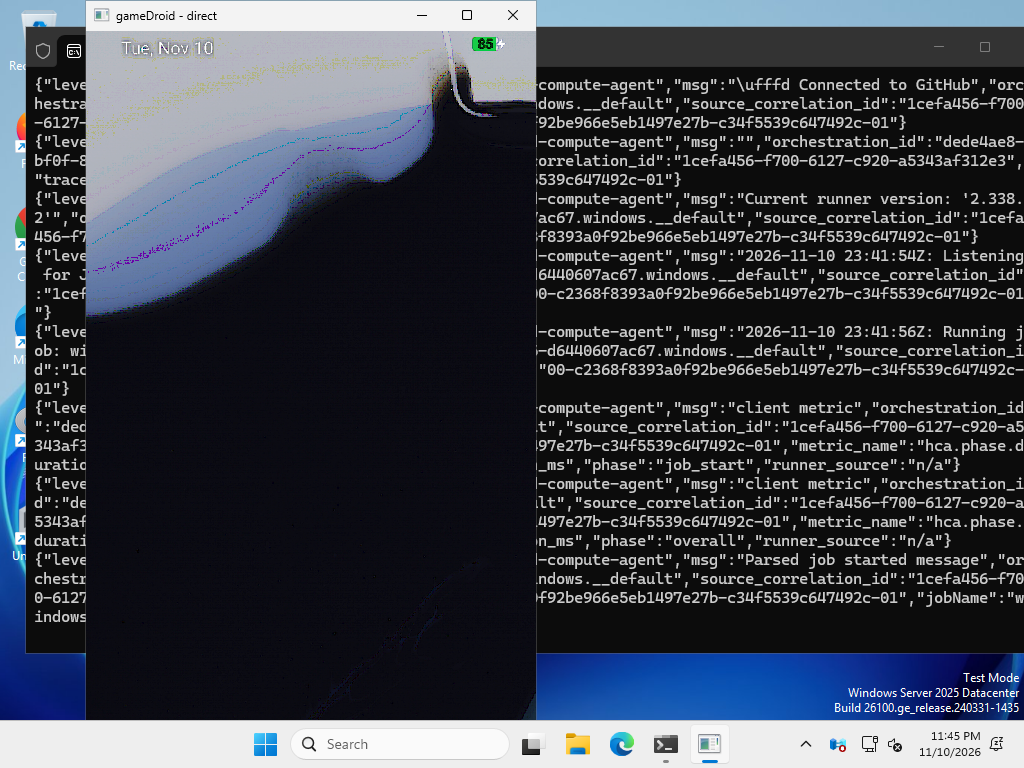
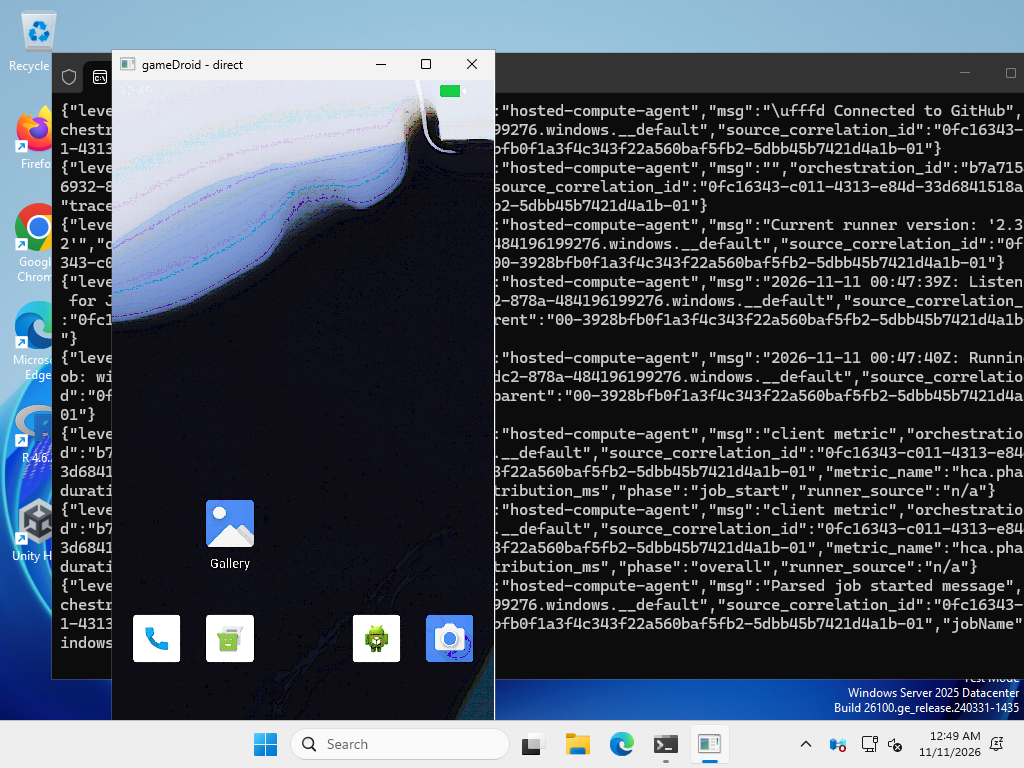
Linphone: decision recorded (an app inside Android); try an x86-64 build
Also refreshes the Windows window screenshot: Android's home screen with
no lock screen, set by the app after boot.

Claude-Session: https://claude.ai/code/session_01TACX1Xcs9qFuoDuXcwJgza

diff --git a/docs/research/linphone.md b/docs/research/linphone.md
@@ -1,6 +1,6 @@
 # Linphone and gameDroid
 
-Date: 2026-11-11. Status: research. Nothing built.
+Date: 2026-11-11. Status: **decided, option A** (see the end). First experiment in CI.
 
 Confidence: read from Linphone's own repositories and F-Droid's build recipe
 by a research pass on 2026-11-10. Items marked (inferred) were not confirmed.
@@ -58,7 +58,20 @@ gameDroid can offer to install. B only if the aim is voice chat between
 gameDroid players that works outside any one game, which is a product
 decision, not an engineering one.
 
-**The question for the owner:** which of A, B or C is meant.
+## Decision
+
+2026-11-11, by the owner: **A. Linphone as an app inside Android that
+gameDroid offers to install.**
+
+What that commits to, in order:
+
+| Step | What | State |
+|---|---|---|
+| L1 | Build the app for x86-64 from its source; see it install and start on gameDroid | In CI (`.github/workflows/linphone.yml`) |
+| L2 | Network in the guest (roadmap E4) | Not started |
+| L3 | Sound out and microphone in the guest (roadmap E9) | Not started |
+| L4 | A call between two Linphone instances, heard and spoken | Needs L2 and L3 |
+| L5 | gameDroid offers to install it, from a build gameDroid publishes with its source | Needs L1; licence notes to write |
 
 ## Sources
 
